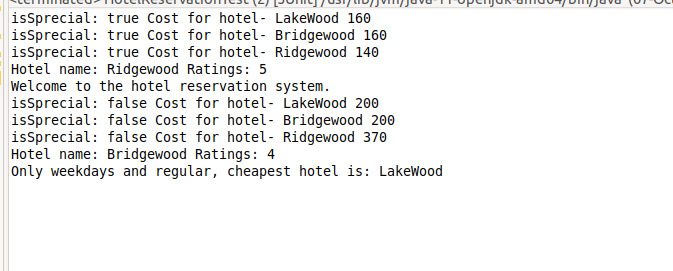
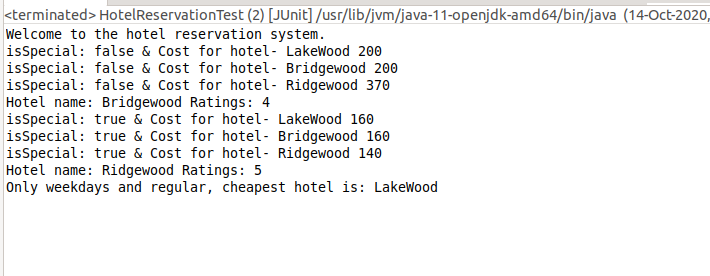
[Jagriti]REFACTORED: code format and comments

Changed region(s): [[0.0, 0.0, 1.0, 0.7085]]

diff --git a/src/main/java/com/bl/junitMood/HotelReservationSystem/HotelReservation.java b/src/main/java/com/bl/junitMood/HotelReservationSystem/HotelReservation.java
@@ -12,45 +12,44 @@ import java.util.Date;
 import java.util.HashMap;
 import java.util.Map;
 
-public class HotelReservation 
-{
+public class HotelReservation {
 	private long numDates;
-	Map<Hotel, Integer> hotelNameToCostMap = new HashMap<>(); 
+	Map<Hotel, Integer> hotelNameToCostMap = new HashMap<>();
 	private int hotelCost;
-	
+
 	public boolean printWelcome() {
-		 System.out.println( "Welcome to the hotel reservation system." );
-		 return true;
+		System.out.println("Welcome to the hotel reservation system.");
+		return true;
 	}
-	
+
 	public void getNumOfDatesInRange(String startDate, String endDate) {
 		DateTimeFormatter formatter = DateTimeFormatter.ofPattern("dd/MM/yyyy");
-		
+
 		LocalDate start = LocalDate.parse(startDate, formatter);
 		LocalDate end = LocalDate.parse(endDate, formatter);
-		numDates =  ChronoUnit.DAYS.between(start, end);
+		numDates = ChronoUnit.DAYS.between(start, end);
 	}
-	
-	//this function gives the days (1 for Sunday, 2-Mon...) from given date
+
+	// this function gives the days (1 for Sunday, 2-Mon...) from given date
 	public int getDayFromDate(String startDate) throws ParseException {
-		Date start = new SimpleDateFormat("dd/MM/yyyy").parse(startDate);  
-	    Calendar c = Calendar.getInstance();
+		Date start = new SimpleDateFormat("dd/MM/yyyy").parse(startDate);
+		Calendar c = Calendar.getInstance();
 		c.setTime(start);
 		int dayOfWeek = c.get(Calendar.DAY_OF_WEEK);
 		return dayOfWeek;
 	}
-	
+
 	// calculate total cost for a particular hotel
 	public void calculateTotalCost(String startDate, Hotel hotel, boolean isSpecial) throws ParseException {
 		int dayOfWeek = getDayFromDate(startDate);
 		hotelCost = 0;
-		for(int day = 0; day<= numDates; day++) {
+		for (int day = 0; day <= numDates; day++) {
 			dayOfWeek = day + dayOfWeek;
 			if (dayOfWeek > 7) {
 				dayOfWeek = 7;
 			}
-			
-			if (dayOfWeek == 1 || dayOfWeek == 7) {			// 1 is for Sunday and 7 for Saturday
+
+			if (dayOfWeek == 1 || dayOfWeek == 7) { // 1 is for Sunday and 7 for Saturday
 				if (isSpecial) {
 					hotelCost = hotelCost + hotel.getSpecialWeekEndRate();
 				} else {
@@ -64,37 +63,30 @@ public class HotelReservation
 				}
 			}
 		}
-		System.out.println("isSprecial: "+ isSpecial + " Cost for hotel- " 
-							+ hotel.getHotelName() +" "+ hotelCost);
+		System.out.println("isSpecial: " + isSpecial + " & Cost for hotel- " + hotel.getHotelName() + " " + hotelCost);
 		hotelNameToCostMap.put(hotel, hotelCost);
 	}
-	
-	//this function finds the hotel with lowest rates and return name of hotel
+
+	// this function finds the hotel with lowest rates and return name of hotel
 	// only weekdays considered
-	public String findCheapestHotel(ArrayList<Hotel> hotels ) {
-		Hotel hotel = hotels.stream()
-							 .min(Comparator.comparing(Hotel::getRegularDailyRate))
-							 .orElse(null);
-		System.out.println("Only weekdays and regular, cheapest hotel is: " +hotel.getHotelName());
+	public String findCheapestHotel(ArrayList<Hotel> hotels) {
+		Hotel hotel = hotels.stream().min(Comparator.comparing(Hotel::getRegularDailyRate)).orElse(null);
+		System.out.println("Only weekdays and regular, cheapest hotel is: " + hotel.getHotelName());
 		return hotel.getHotelName();
 	}
-	
+
 	// to find min cost and max rating among total cost of all hotels
 	public String findBestCheapestHotelInMap() {
-		int minCost = hotelNameToCostMap.entrySet()
-									.stream()
-						            .min(Map.Entry.comparingByValue())
-						            .get().getValue();
-		
-		Hotel hotel = hotelNameToCostMap.entrySet().stream()
-						  .filter(hotelMap -> minCost == hotelMap.getValue())
-						  .max((hotel1, hotel2) -> hotel1.getKey().getRatings() > hotel2.getKey().getRatings() ? 1 : -1)
-						  .get().getKey();
-		
-		System.out.println("Hotel name: "+ hotel.getHotelName()+ " Ratings: "+hotel.getRatings());
+		int minCost = hotelNameToCostMap.entrySet().stream().min(Map.Entry.comparingByValue()).get().getValue();
+
+		Hotel hotel = hotelNameToCostMap.entrySet().stream().filter(hotelMap -> minCost == hotelMap.getValue())
+				.max((hotel1, hotel2) -> hotel1.getKey().getRatings() > hotel2.getKey().getRatings() ? 1 : -1).get()
+				.getKey();
+
+		System.out.println("Hotel name: " + hotel.getHotelName() + " Ratings: " + hotel.getRatings());
 		return hotel.getHotelName();
 	}
-	
+
 	// returns the name of the hotel with min total cost and best ratings
 	// isSpecial = 1 when calculating for reward customer and 0 for regular customer
 	public String findCheapestHotelByDates(String sDate, String eDate, ArrayList<Hotel> hotels, boolean isSpecial) {
@@ -102,7 +94,7 @@ public class HotelReservation
 			try {
 				getNumOfDatesInRange(sDate, eDate);
 				calculateTotalCost(sDate, hotel, isSpecial);
-				
+
 			} catch (ParseException e) {
 				System.out.println("Exception msg: " + e.getMessage());
 			}
@@ -110,16 +102,11 @@ public class HotelReservation
 		String hotelName = findBestCheapestHotelInMap();
 		return hotelName;
 	}
-	
+
 	// finds the hotel with highest ratings
 	public String findBestRatedHotel(ArrayList<Hotel> hotels) {
-		Hotel hotel = hotels.stream()
-							.max(Comparator.comparing(Hotel::getRegularDailyRate))
-							.orElse(null);
+		Hotel hotel = hotels.stream().max(Comparator.comparing(Hotel::getRegularDailyRate)).orElse(null);
 		return hotel.getHotelName();
 	}
-	
-	
+
 }
-
-

diff --git a/src/test/java/com/bl/junitMood/HotelReservationSystem/HotelReservationTest.java b/src/test/java/com/bl/junitMood/HotelReservationSystem/HotelReservationTest.java
@@ -6,15 +6,14 @@ import org.junit.Assert;
 import org.junit.Before;
 import org.junit.Test;
 
-
-public class HotelReservationTest 
-{
-	Hotel hotel1 = new Hotel("LakeWood",110, 90, 3, 80, 80);
-	Hotel hotel2 = new Hotel("Bridgewood",150, 50, 4, 110, 50);
-	Hotel hotel3 = new Hotel("Ridgewood",220, 150, 5, 100, 40);
+public class HotelReservationTest {
+	//	UC1 creating hotel objects
+	Hotel hotel1 = new Hotel("LakeWood", 110, 90, 3, 80, 80);
+	Hotel hotel2 = new Hotel("Bridgewood", 150, 50, 4, 110, 50);
+	Hotel hotel3 = new Hotel("Ridgewood", 220, 150, 5, 100, 40);
 	HotelReservation hotelReservation = null;
 	ArrayList<Hotel> hotelList;
-	
+
 	@Before
 	public void initialize() {
 		hotelReservation = new HotelReservation();
@@ -23,21 +22,21 @@ public class HotelReservationTest
 		hotelList.add(hotel2);
 		hotelList.add(hotel3);
 	}
-	
+
 	@Test
-    public void shouldPrintWelcomeMsg() {
-        boolean welcome = hotelReservation.printWelcome();
-        Assert.assertEquals(true, welcome);
-    }
-	
+	public void shouldPrintWelcomeMsg() {
+		boolean welcome = hotelReservation.printWelcome();
+		Assert.assertEquals(true, welcome);
+	}
+
 	//finding cheapest hotel when considering only weekdays
 	@Test
 	public void shouldReturnLakeWood_whenAllRegularWeekdays() {
 		String hotelName = hotelReservation.findCheapestHotel(hotelList);
 		Assert.assertEquals("LakeWood", hotelName);
 	}
-	
-	//finding best hotel for regular customers considering dates range
+
+	// finding best hotel for regular customers considering dates range
 	@Test
 	public void shouldReturnBridgewood_whenAllRegularDays() {
 		String startDate = "11/09/2020";
@@ -45,15 +44,15 @@ public class HotelReservationTest
 		String hotelName = hotelReservation.findCheapestHotelByDates(startDate, endDate, hotelList, false);
 		Assert.assertEquals("Bridgewood", hotelName);
 	}
-	
-	//finding hotel with best ratings
+
+	// finding hotel with best ratings
 	@Test
 	public void shouldReturnRidgewood_whenFindingBestRatedHotel() {
 		String hotelName = hotelReservation.findBestRatedHotel(hotelList);
 		Assert.assertEquals("Ridgewood", hotelName);
 	}
-	
-	//finding best hotel for special customers considering dates range
+
+	// finding best hotel for special customers considering dates range
 	@Test
 	public void shouldReturnRidgewood_whenAllDays_forSpecialCustomers() {
 		String startDate = "11/09/2020";

diff --git a/src/main/java/com/bl/junitMood/HotelReservationSystem/Hotel.java b/src/main/java/com/bl/junitMood/HotelReservationSystem/Hotel.java
@@ -1,16 +1,16 @@
 package com.bl.junitMood.HotelReservationSystem;
 
 public class Hotel {
-	
+
 	private String hotelName;
 	private int regularDailyRate;
 	private int regularWeekEndRate;
 	private int ratings;
 	private int specialDailyRate;
 	private int specialWeekEndRate;
-	
-	Hotel(String hotelName, int regularDailyRate, int regularWeekEndRate,int ratings,
-			int specialDailyRate, int specialWeekEndRate) {
+
+	Hotel(String hotelName, int regularDailyRate, int regularWeekEndRate, int ratings, int specialDailyRate,
+			int specialWeekEndRate) {
 		this.hotelName = hotelName;
 		this.regularDailyRate = regularDailyRate;
 		this.regularWeekEndRate = regularWeekEndRate;
@@ -18,67 +18,55 @@ public class Hotel {
 		this.specialDailyRate = specialDailyRate;
 		this.specialWeekEndRate = specialWeekEndRate;
 	}
-
 
 	public int getSpecialDailyRate() {
 		return specialDailyRate;
 	}
 
-
 	public void setSpecialDailyRate(int specialDailyRate) {
 		this.specialDailyRate = specialDailyRate;
 	}
-
 
 	public int getSpecialWeekEndRate() {
 		return specialWeekEndRate;
 	}
 
-
 	public void setSpecialWeekEndRate(int specialWeekEndRate) {
 		this.specialWeekEndRate = specialWeekEndRate;
 	}
-
 
 	public int getRatings() {
 		return ratings;
 	}
 
-
 	public void setRatings(int ratings) {
 		this.ratings = ratings;
 	}
-
 
 	public int getRegularWeekEndRate() {
 		return regularWeekEndRate;
 	}
 
-
 	public void setRegularWeekEndRate(int regularWeekEndRate) {
 		this.regularWeekEndRate = regularWeekEndRate;
 	}
-
 
 	public String getHotelName() {
 		return hotelName;
 	}
 
-
 	public void setHotelName(String hotelName) {
 		this.hotelName = hotelName;
 	}
-
 
 	public int getRegularDailyRate() {
 		return regularDailyRate;
 	}
 
-
 	public void setRegularDailyRate(int regularDailyRate) {
 		this.regularDailyRate = regularDailyRate;
 	}
-	
+
 	@Override
 	public String toString() {
 		System.out.println("Hotel Name: " + this.hotelName);
